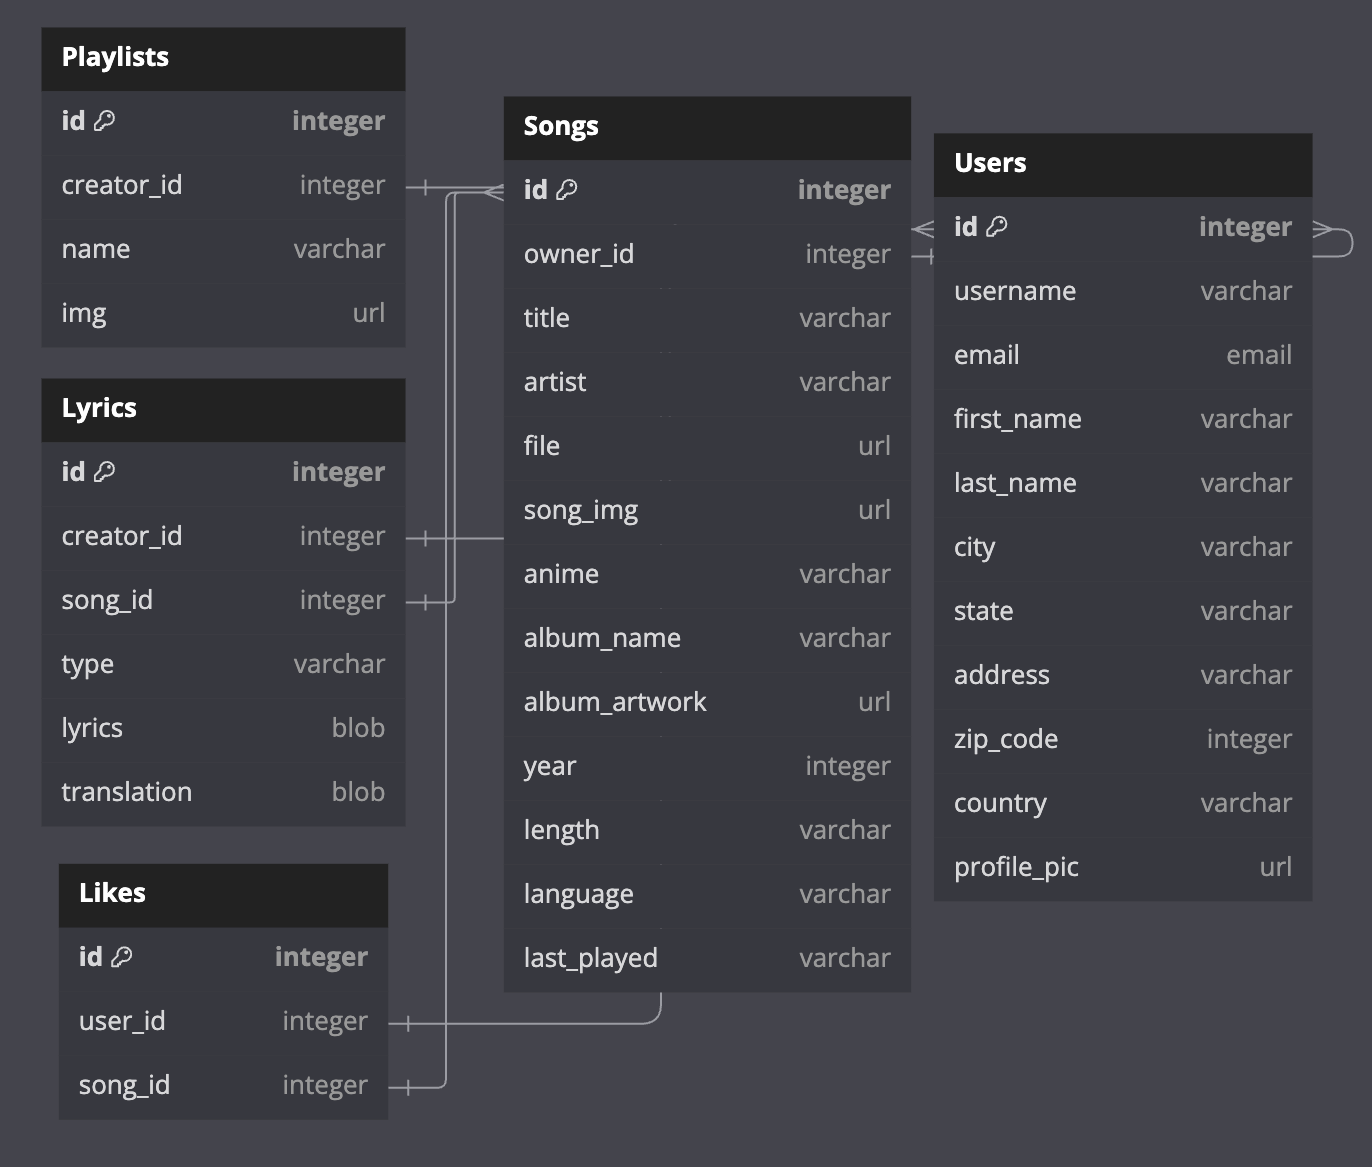
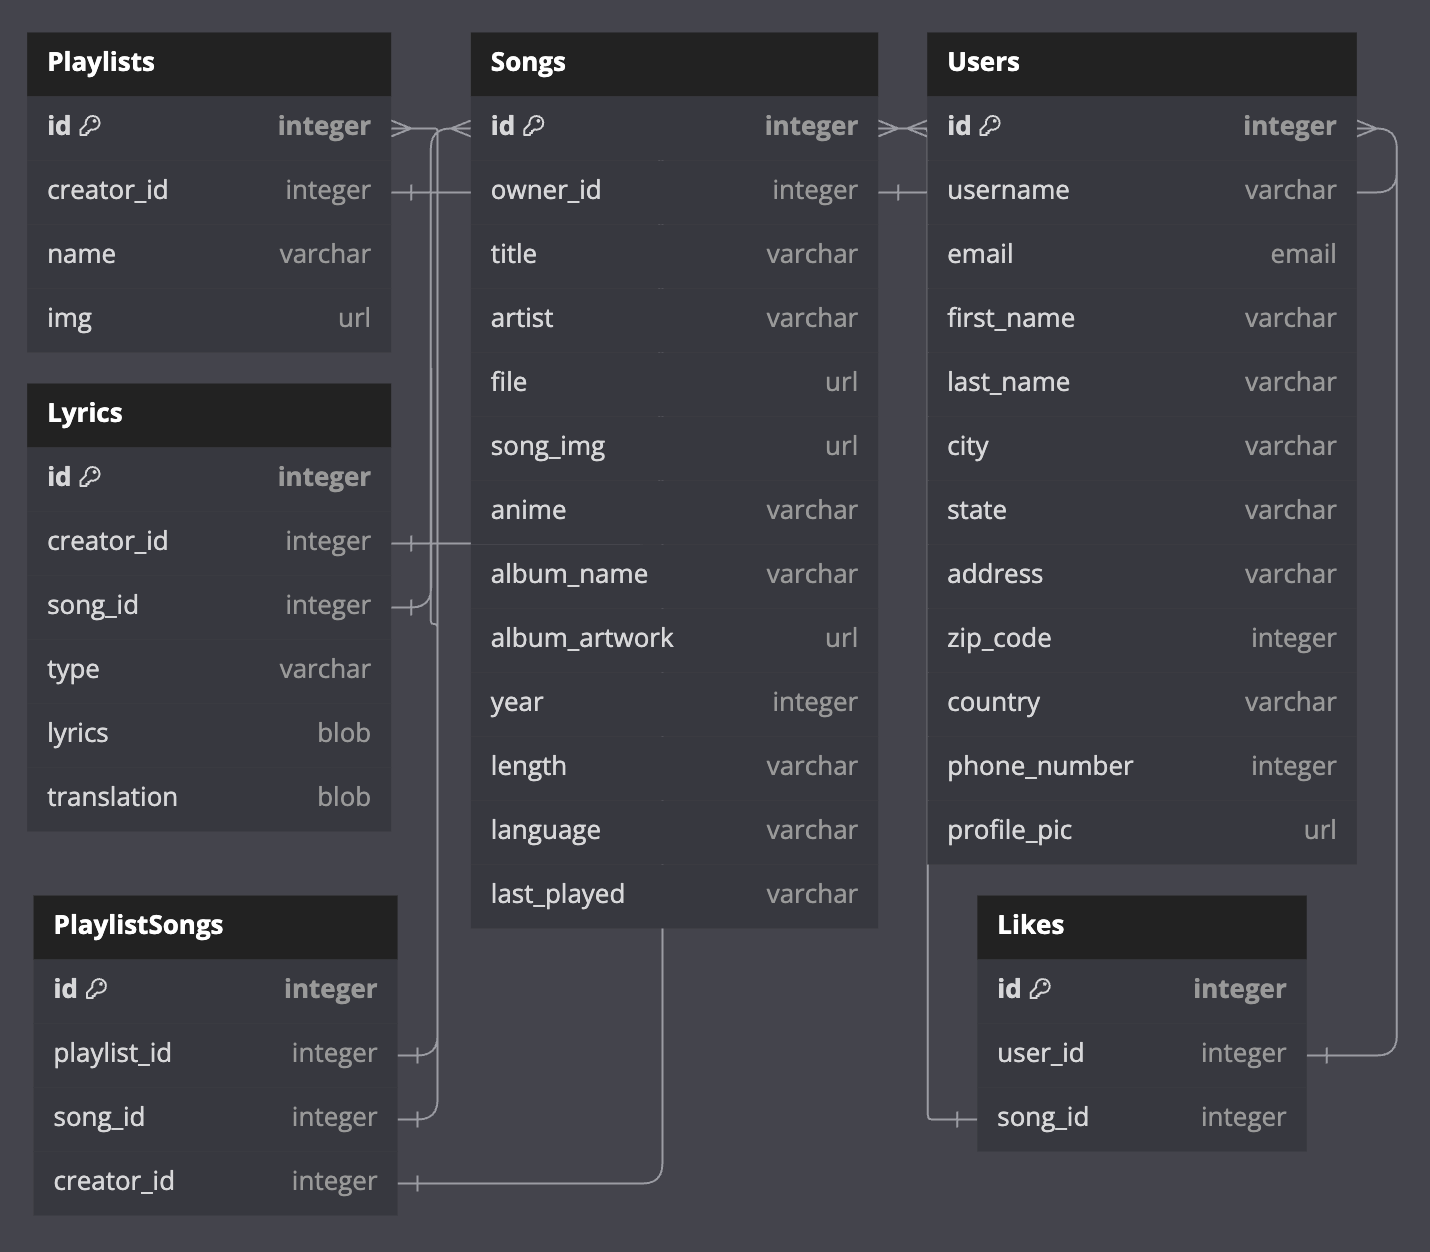
playlist songs table added

diff --git a/migrations/versions/329f853af775_.py b/migrations/versions/329f853af775_.py
@@ -101,11 +101,24 @@ def upgrade():
     )
     if environment == "production":
         op.execute(f"ALTER TABLE lyrics SET SCHEMA {SCHEMA};")
+    op.create_table('playlist_songs',
+    sa.Column('id', sa.Integer(), autoincrement=True, nullable=False),
+    sa.Column('playlist_id', sa.Integer(), nullable=False),
+    sa.Column('song_id', sa.Integer(), nullable=False),
+    sa.Column('created_at', sa.DateTime(), nullable=True),
+    sa.Column('updated_at', sa.DateTime(), nullable=True),
+    sa.ForeignKeyConstraint(['song_id'], ['songs.id'], ),
+    sa.ForeignKeyConstraint(['playlist_id'], ['playlists.id'], ),
+    sa.PrimaryKeyConstraint('id')  
+    )
+    if environment == "production":
+        op.execute(f"ALTER TABLE playlist_songs SET SCHEMA {SCHEMA};")
     # ### end Alembic commands ###
 
 
 def downgrade():
     # ### commands auto generated by Alembic - please adjust! ###
+    op.drop_table('playlist_songs')
     op.drop_table('lyrics')
     op.drop_table('likes')
     op.drop_table('songs')

diff --git a/app/models/playlist_songs.py b/app/models/playlist_songs.py
@@ -1,0 +1,23 @@
+from .db import db, environment, SCHEMA, add_prefix_for_prod
+import datetime
+
+class PlaylistSongs(db.Model):
+    __tablename__ = 'playlist_songs'
+
+    if environment == "production":
+        __table_args__ = {'schema': SCHEMA}
+
+    id = db.Column(db.Integer, primary_key=True, autoincrement=True)
+    playlist_id = db.Column(db.Integer, db.ForeignKey(add_prefix_for_prod('playlists.id')), nullable=False)
+    song_id = db.Column(db.Integer, db.ForeignKey(add_prefix_for_prod('songs.id')), nullable=False)
+    created_at = db.Column(db.DateTime, default=datetime.datetime.now())
+    updated_at = db.Column(db.DateTime, default=datetime.datetime.now())
+
+    def to_dict(self):
+        return {
+            'id': self.id,
+            'playlist_id': self.playlist_id,
+            'song_id': self.song_id,
+            'playlist': self.playlist.to_dict() if self.playlist else None,
+            'songs': self.songs.to_dict() if self.songs else None
+        }

diff --git a/app/models/songs.py b/app/models/songs.py
@@ -22,6 +22,8 @@ class Songs(db.Model):
     updated_at = db.Column(db.DateTime, default=datetime.datetime.now())
 
     likes = db.relationship('Likes', backref='song', cascade='all, delete-orphan', lazy=True)
+    playlists = db.relationship('PlaylistSongs', backref='songs', cascade='all, delete-orphan', lazy=True)
+
 
     def to_dict(self):
         return {
@@ -36,5 +38,6 @@ class Songs(db.Model):
             'year': self.year,
             'language': self.language,
             'owner': self.owner.to_dict() if self.owner else None,
-            'likes': self.likes.to_dict() if self.likes else None
+            'likes': self.likes.to_dict() if self.likes else None,
+            'playlists': self.playlists.to_dict() if self.playlists else None
         }

diff --git a/app/models/playlists.py b/app/models/playlists.py
@@ -14,11 +14,14 @@ class Playlists(db.Model):
     created_at = db.Column(db.DateTime, default=datetime.datetime.now())
     updated_at = db.Column(db.DateTime, default=datetime.datetime.now())
 
+    songs = db.relationship('PlaylistSongs', backref='playlists', cascade='all, delete-orphan', lazy=True)
+
     def to_dict(self):
         return {
             'id': self.id,
             'creator_id': self.creator_id,
             'name': self.name,
             'image': self.image, 
-            'creator': self.creator.to_dict() if self.creator else None 
+            'creator': self.creator.to_dict() if self.creator else None,
+            'songs': self.songs.to_dict() if self.songs else None
         }

diff --git a/app/models/__init__.py b/app/models/__init__.py
@@ -4,4 +4,5 @@ from .songs import Songs
 from .playlists import Playlists
 from .lyrics import Lyrics
 from .likes import Likes
+from .playlist_songs import PlaylistSongs
 from .db import environment, SCHEMA
